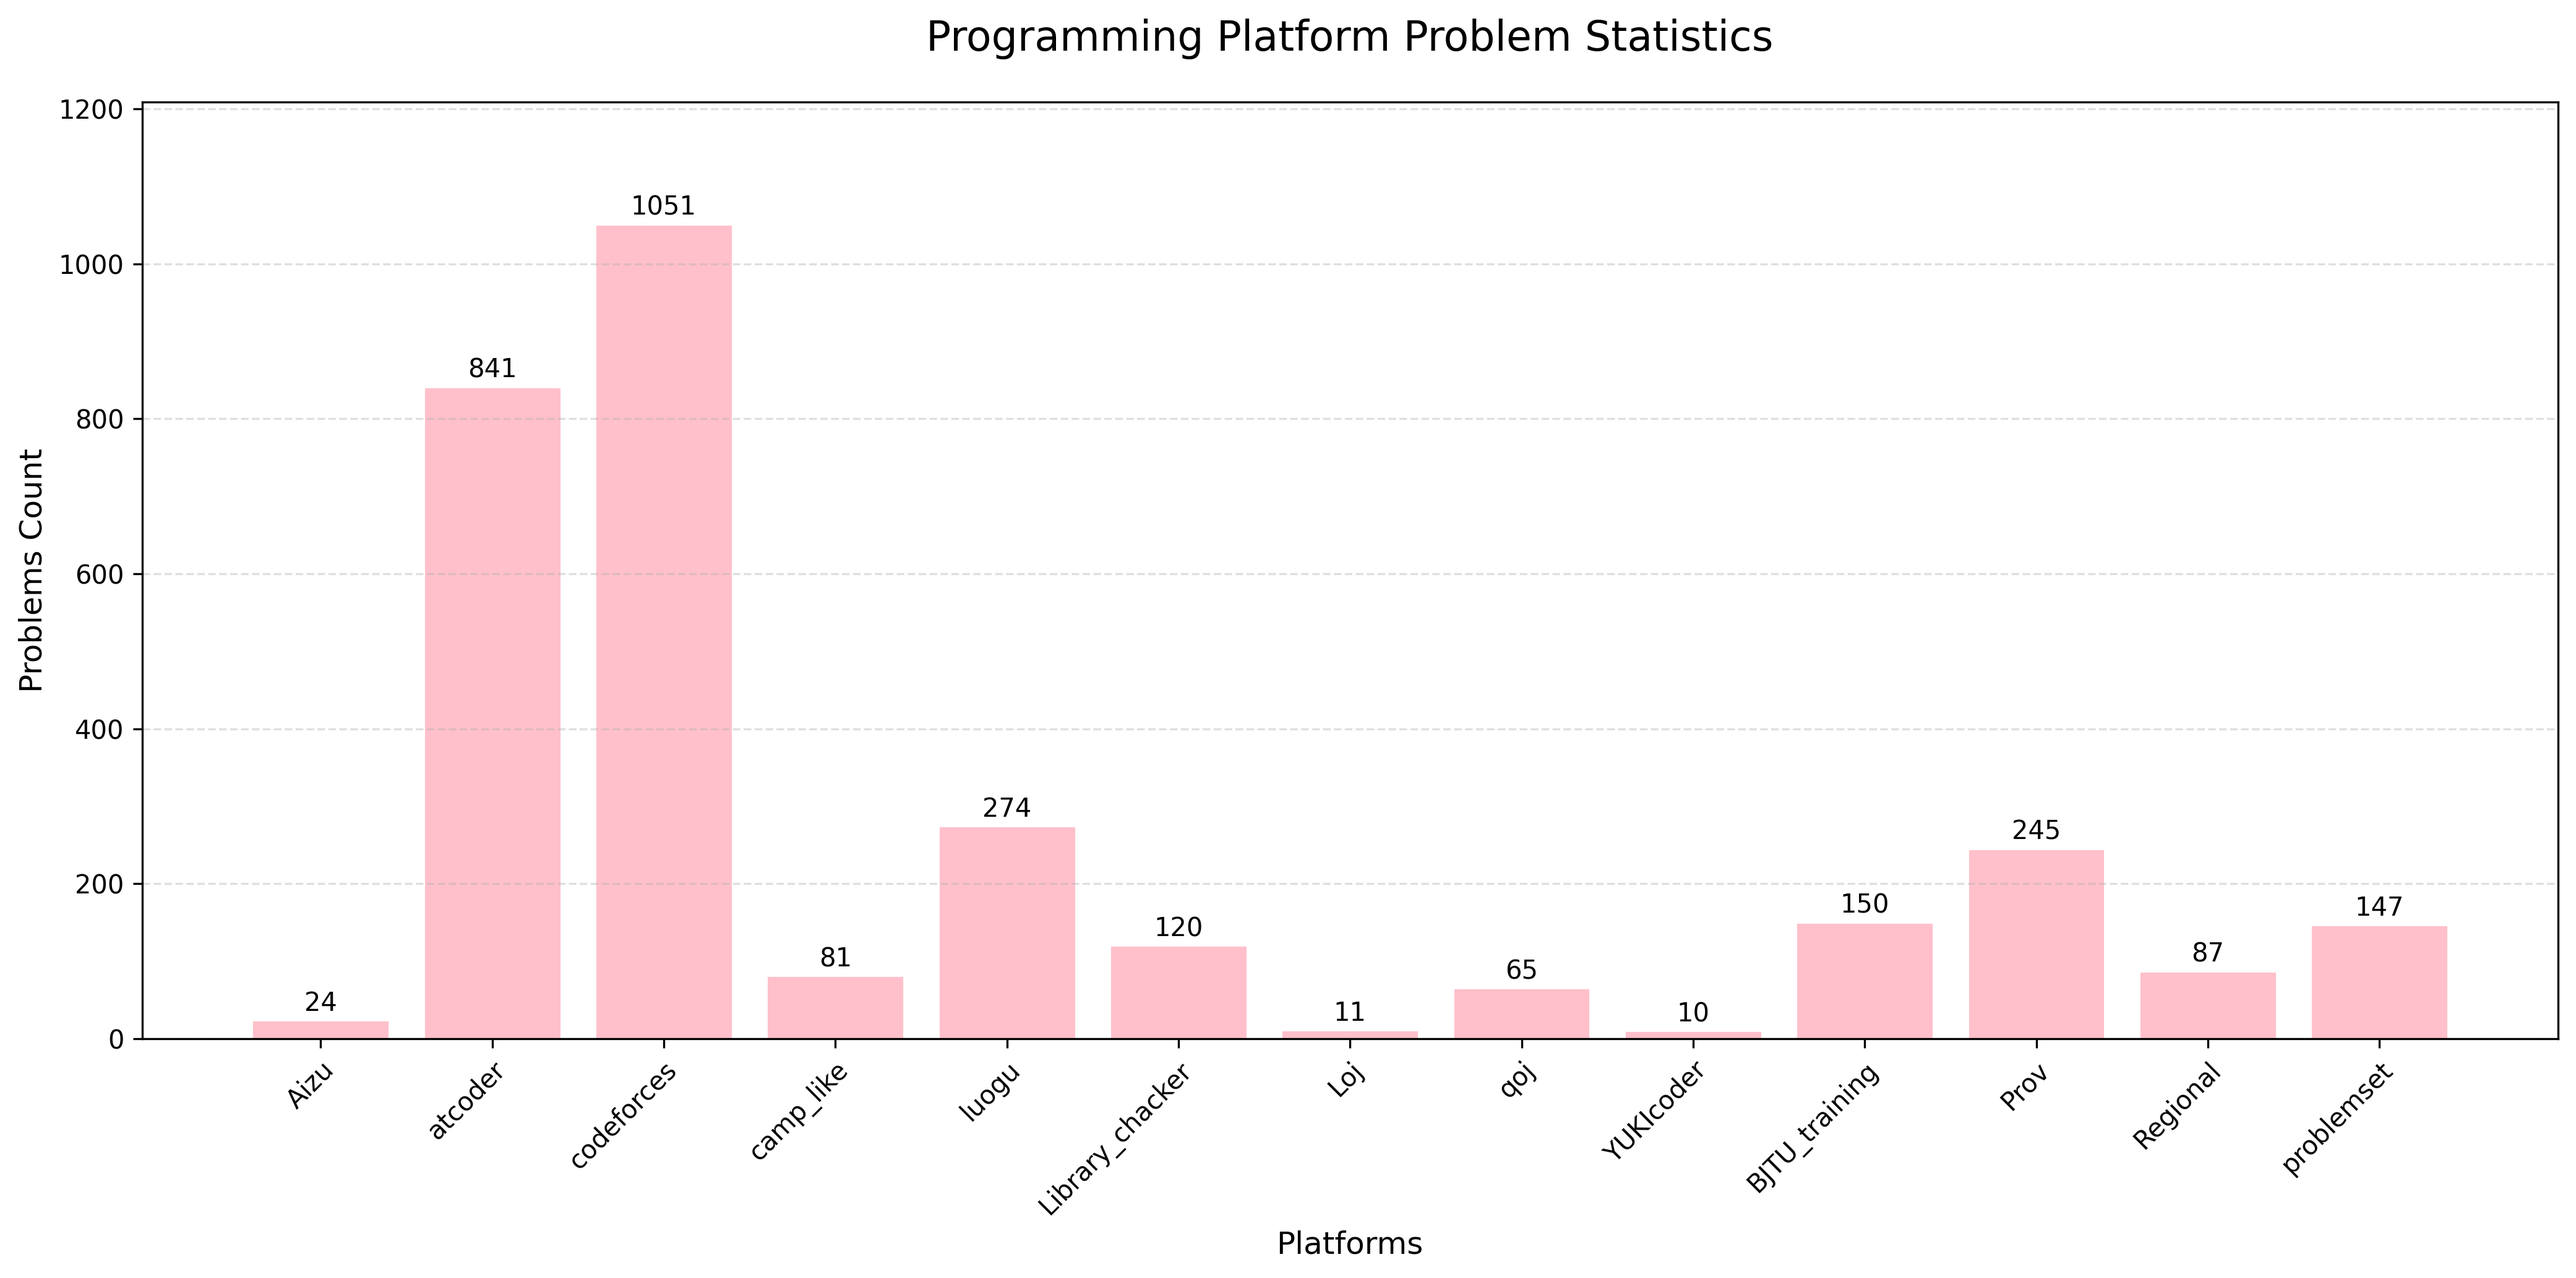
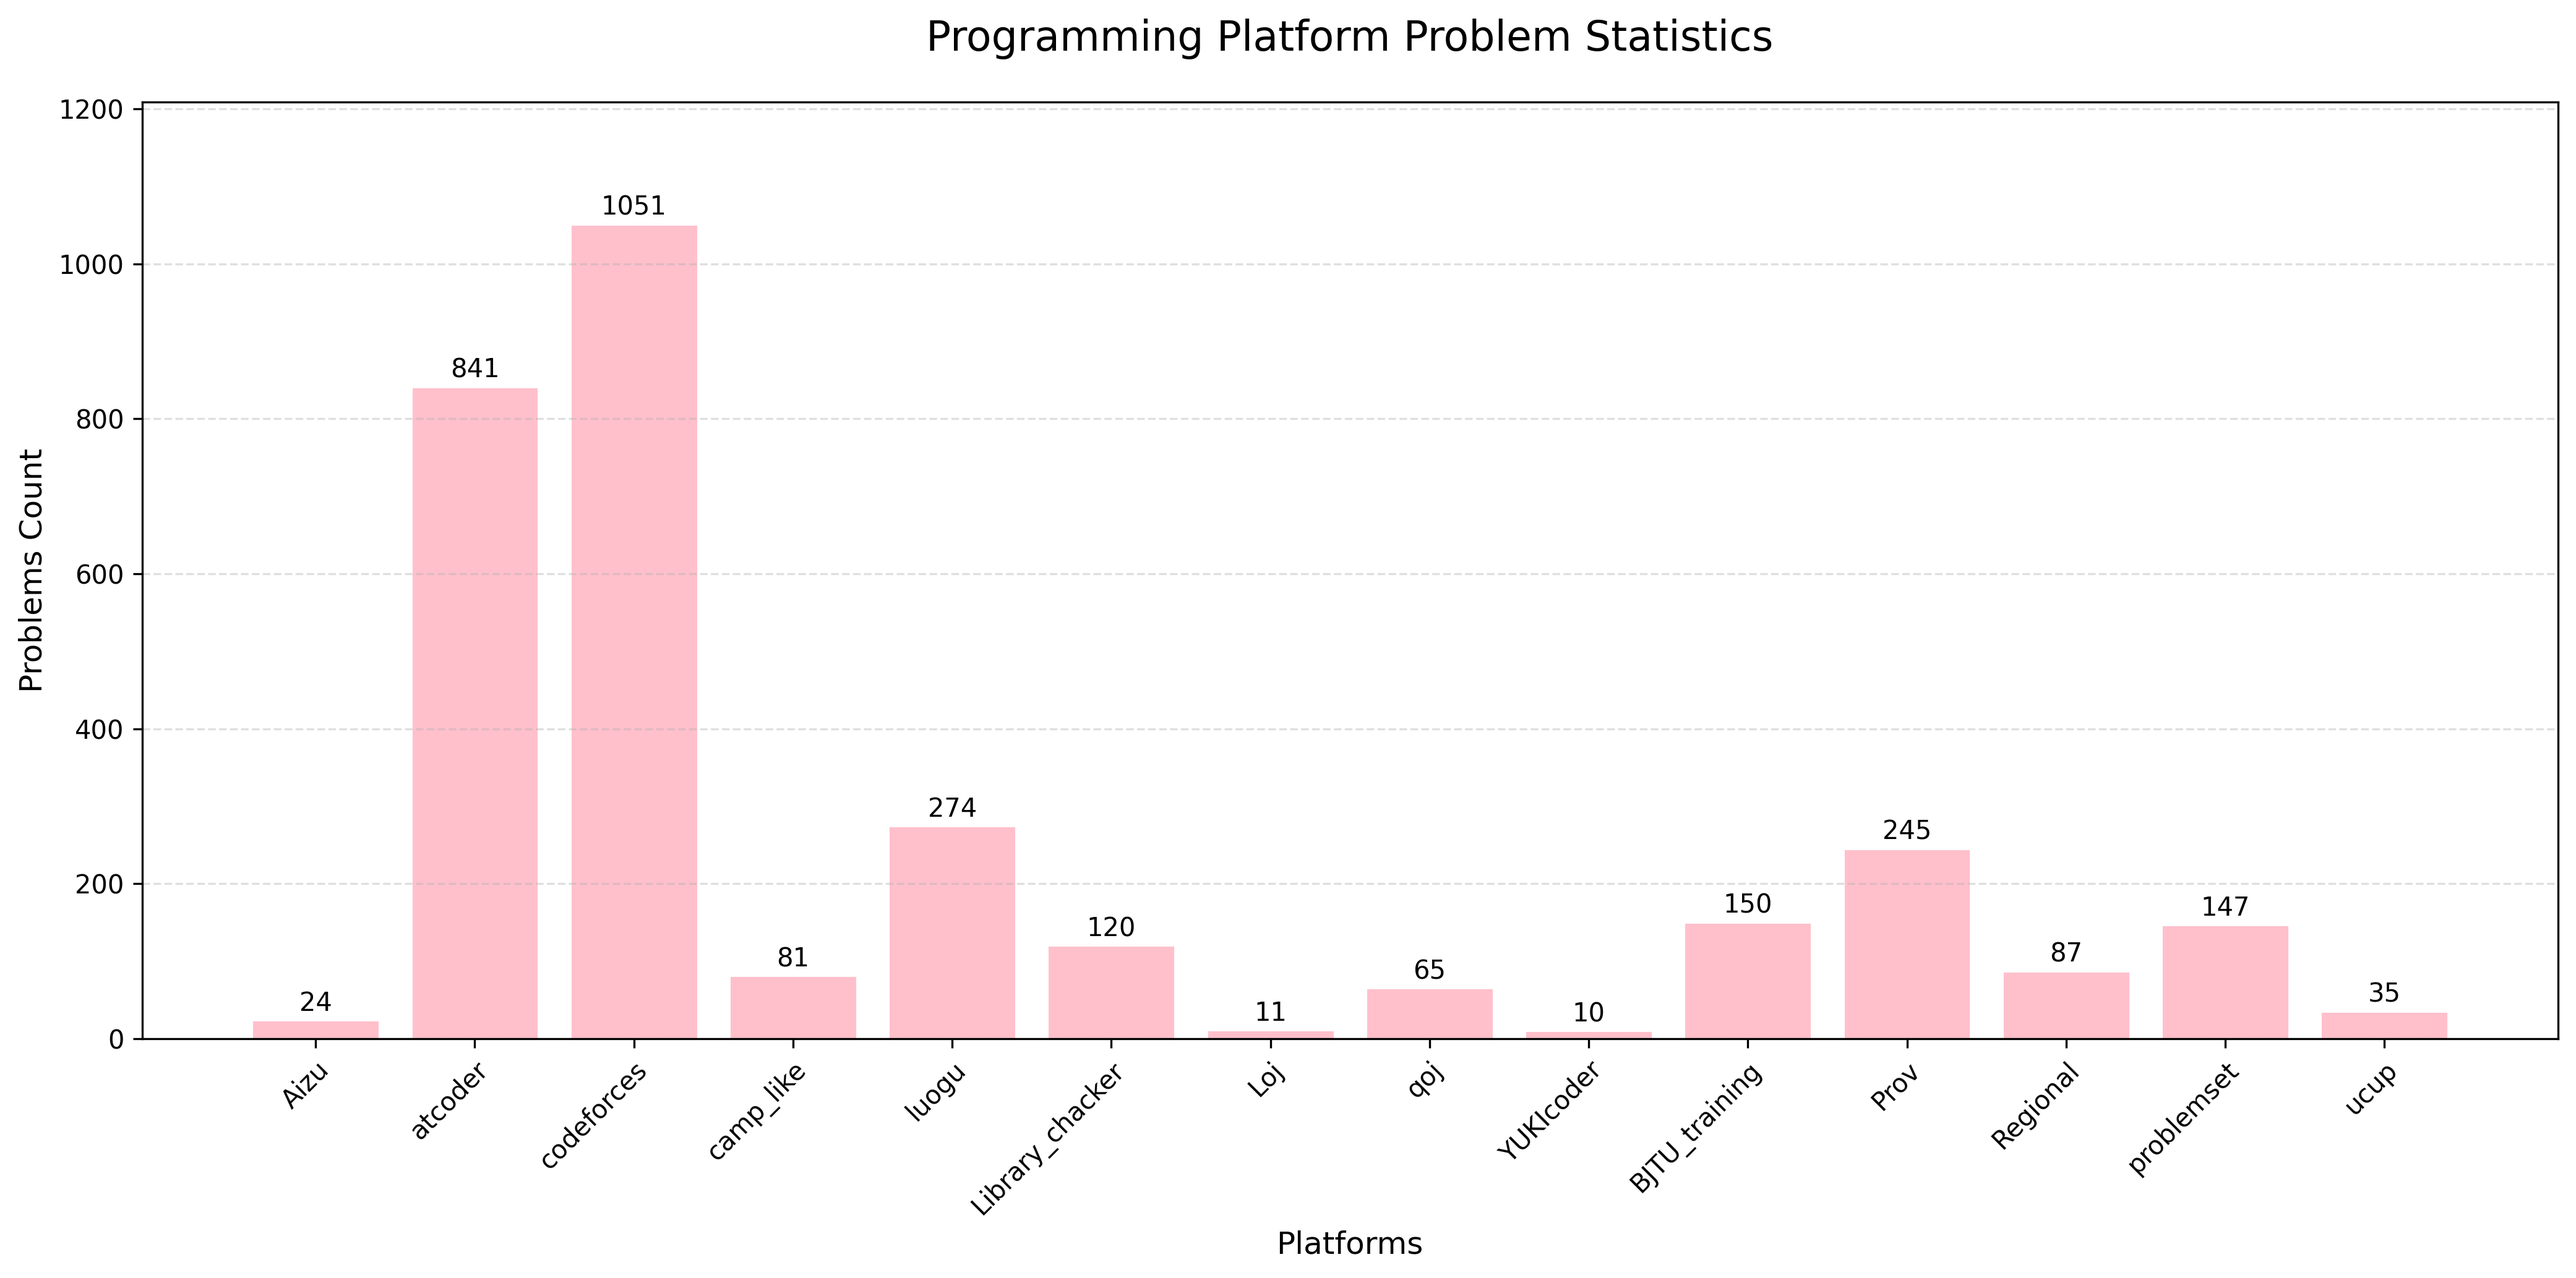
Ciallo～(∠・ω< )⌒★

diff --git a/gen_json.py b/gen_json.py
@@ -16,7 +16,8 @@ def f_count(root='.'):
         'BJTU_training',
         'Prov',
         'Regional',
-        'problemset'
+        'problemset',
+        'ucup'
     ]
     count = OrderedDict()
     
